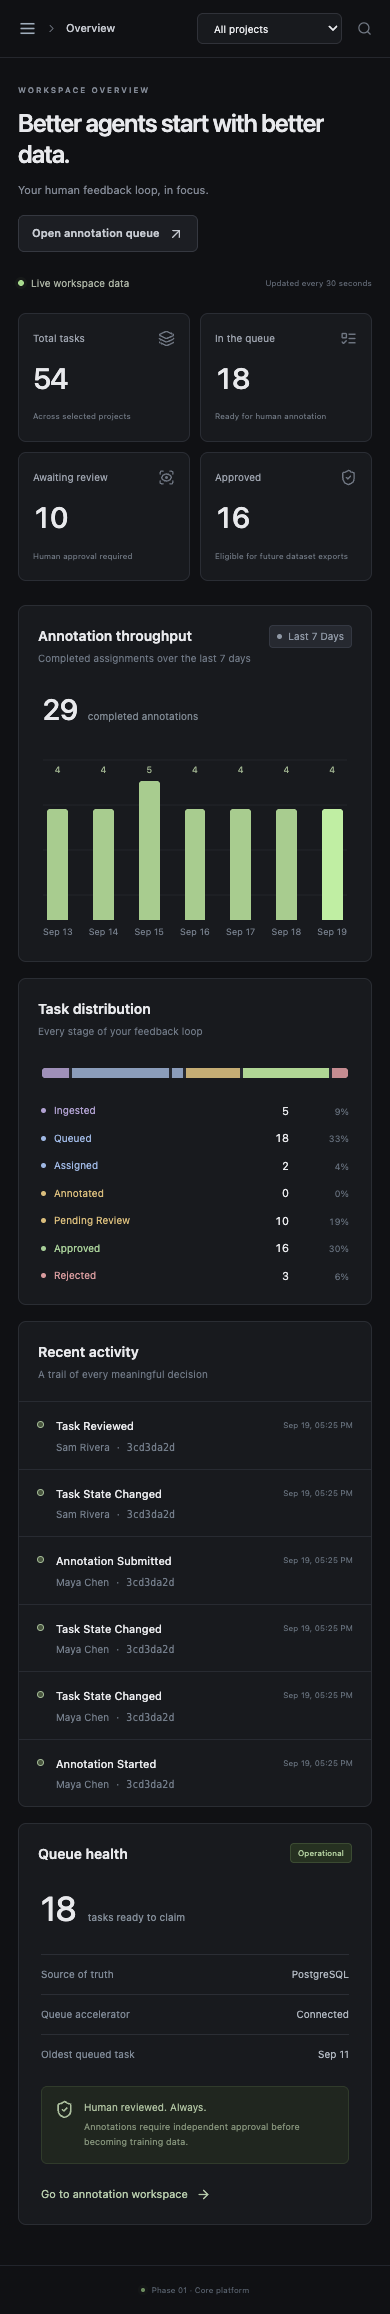
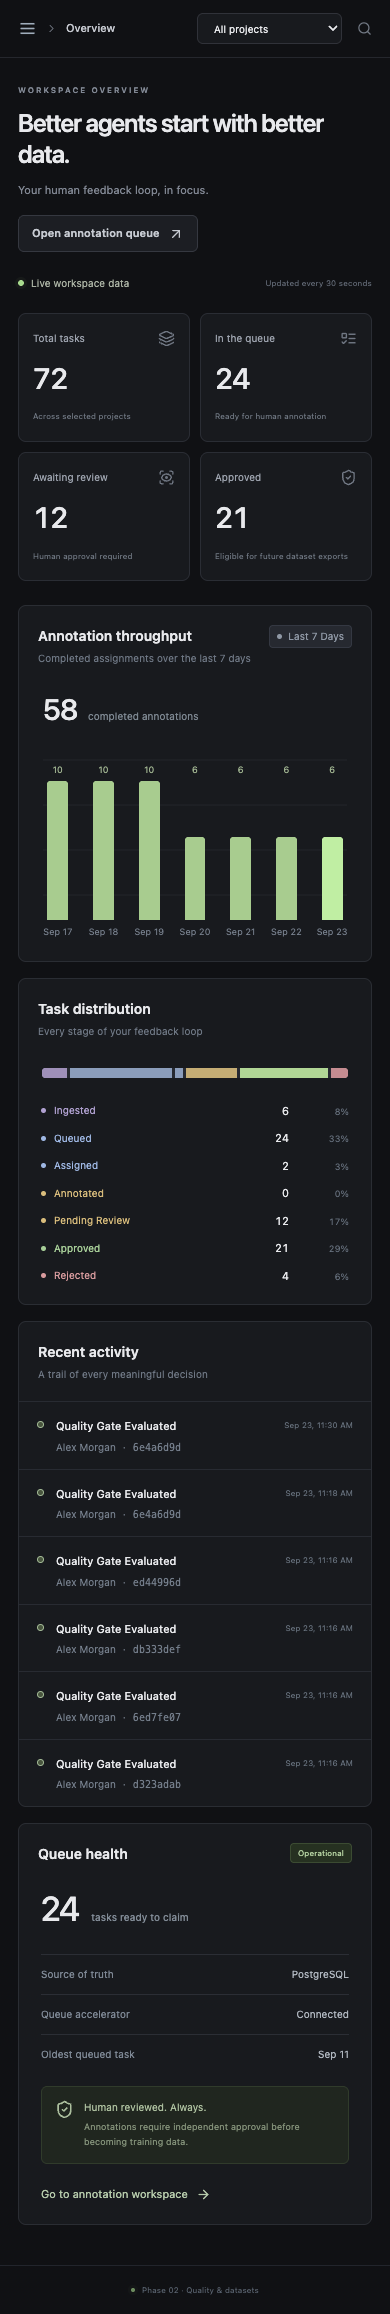
docs: document quality control, datasets, and the Phase 2 result
Add the quality rules and dataset/export contract references, and update
the README walkthrough for the multi-annotator loop, the review and
quality workspaces, dataset finalization, and background exports, along
with the new endpoints, the worker service, and EXPORT_DIRECTORY.

Extend the architecture notes with the Phase 2 failure semantics, record
the verification run, and refresh the screenshots from the running
seeded application.

Restate the scope boundary: monitoring integrations, external object
storage, SSO, and Parquet stay out of this phase.

diff --git a/README.md b/README.md
@@ -12,7 +12,7 @@ Requires Docker Desktop (running) and Docker Compose.
 docker compose up --build -d
 ```
 
-Open **http://localhost:8080**. API documentation: **http://localhost:8000/docs**. The backend applies Alembic migrations and seeds the demo automatically. Health checks coordinate startup for PostgreSQL, Redis, API, and frontend.
+Open **http://localhost:8080**. API documentation: **http://localhost:8000/docs**. The backend applies Alembic migrations and seeds the demo automatically. Health checks coordinate startup for PostgreSQL, Redis, API, export worker, and frontend.
 
 | Role | Email | Demo password |
 | --- | --- | --- |
@@ -20,6 +20,7 @@ Open **http://localhost:8080**. API documentation: **http://localhost:8000/docs*
 | Annotator | `annotator@argus.dev` | `Argus-demo-2026!` |
 | Reviewer | `reviewer@argus.dev` | `Argus-demo-2026!` |
 | Second annotator | `annotator2@argus.dev` | `Argus-demo-2026!` |
+| Third annotator | `annotator3@argus.dev` | `Argus-demo-2026!` |
 
 These are explicit local demo accounts. Ports bind to localhost. Copy `.env.example` to `.env` to customize settings; use a generated JWT secret and disable `SEED_DEMO` before a non-demo deployment. Existing seed accounts are never reset when containers restart.
 
@@ -31,34 +32,36 @@ docker compose down             # stop; preserve data volumes
 
 ## Try the feedback loop
 
-1. Sign in as admin. Explore the live overview, three projects, and 54 realistic tasks. Filter the task explorer, open a trace, expand tool inputs/outputs, and inspect its audit log.
-2. Sign in as an annotator. Open **Annotation Queue**, resume or claim a task, select an outcome and quality score, and write feedback. Structured fields accept a JSON object. Save the draft, then complete the assignment.
-3. The task moves to **PENDING_REVIEW**. Sign in as reviewer, find it in the task explorer, inspect the trace and annotations, and select **Review task**. Approval/rejection requires a written rationale.
-4. Admins can requeue rejected work. Earlier assignments, annotations, and decisions remain available as provenance.
+1. Sign in as admin. Open the **Agent quality · multi-review** project and its schema/quality settings. It has seven dynamic field types, three independent annotators, and explicit human quality gates.
+2. Open **Annotation Queue** as an annotator. Claim work, complete the versioned form, save, and submit. Other annotators' answers remain hidden by default. Reference tasks are inserted at the configured cadence.
+3. Open **Human Review** as reviewer. Compare the trajectory, independent annotations, agreement metrics, and history. Approve, reject, request changes, or escalate with a written rationale. Resolve open issues through **Escalations**.
+4. Open **Quality** for cohort agreement, gold accuracy, throughput, and inspectable annotator profiles. Agreement measures consistency, not correctness.
+5. Open **Datasets → argus-agent-reliability**. The seed includes two finalized versions, full lineage, trajectory exports, and a real paired-response DPO export. To build another version, prepare approved examples, filter/select them, create a draft, and finalize. Finalization rechecks every gate.
+6. Request an SFT, DPO, reward, or trajectory export as JSON/JSONL. **Export History** tracks worker progress and offers dataset, manifest, schema, and provenance downloads.
 
-An annotator cannot approve their own task, including when that annotator is an admin. Completing an annotation never approves it. Dataset exports and advanced monitoring are deliberately future-phase routes.
+The additive Phase 2 seed includes 18 tasks, three annotators, gold attempts, disagreements, escalations, revisions, five training examples, and two finalized dataset versions. Phase 1's original projects and tasks remain available. A reviewer cannot approve their own annotation. Completing annotations never grants training eligibility. See [quality rules](docs/quality-control.md) and [datasets and export contracts](docs/datasets.md).
 
 ## Implementation
 
 ```text
 backend/
   app/
-    api/             Auth, projects, tasks, annotations, operations
+    api/             Auth, projects, tasks, quality, datasets, operations
     auth/            Argon2 and JWT validation
     core/            Typed environment configuration
     db/              Session and transaction management
     models/          Relational entities, enums, constraints
     schemas/         Pydantic input contracts
     repositories/    Tenant-scoped queries and aggregates
-    services/        Ingestion and workflow logic
-    queue/           Redis priority coordination and fallback
+    services/        Workflow, consensus, quality gates, snapshots, exporters
+    queue/           Redis coordination, export worker, database fallback
     tests/           API, queue, and PostgreSQL concurrency tests
     seed.py
     main.py
   alembic/           Versioned schema migration
 frontend/
   src/components/    Shared UI primitives and trajectory timeline
-  src/pages/         Dashboard, projects, explorer, annotation, settings
+  src/pages/         Annotation, review, quality, schemas, datasets, lineage
   e2e/               Browser tests against the real running stack
 infrastructure/
   scripts/           Verification and migration checks
@@ -70,7 +73,7 @@ docs/
 
 Python 3.12+, FastAPI, SQLAlchemy 2, Alembic, Pydantic, PostgreSQL 16, Redis 7, and pytest power the backend. React, TypeScript, Vite, Tailwind CSS, TanStack Query, and React Router power the frontend. Nginx serves the production web build and proxies `/api` to FastAPI.
 
-PostgreSQL owns queue/assignment state. A Redis sorted set provides atomic priority hints; `FOR UPDATE SKIP LOCKED`, per-user serialization, and a partial unique index prevent duplicate active ownership. Missing or unavailable Redis entries fall back to PostgreSQL. Assignment leases expire after 60 minutes and recover on the next claim request. See [architecture decisions and failure semantics](docs/architecture.md).
+PostgreSQL owns queue/assignment state. A Redis sorted set provides atomic priority hints; `FOR UPDATE SKIP LOCKED`, per-user serialization, and a partial unique index prevent duplicate active ownership within each task/annotator/round. Missing or unavailable Redis entries fall back to PostgreSQL. Assignment leases expire after 60 minutes and recover on the next claim request. See [architecture decisions and failure semantics](docs/architecture.md).
 
 ## Local development
 
@@ -80,7 +83,7 @@ Requires Python 3.12+, Node 22+, and the database/cache services. The API reads 
 cp .env.example .env
 docker compose up -d postgres redis
 # If the complete stack is running, release ports used by local processes:
-docker compose stop backend frontend
+docker compose stop backend worker frontend
 
 cd backend
 python3.12 -m venv .venv
@@ -90,10 +93,11 @@ pip install -e '.[dev]'
 cp ../.env .env
 alembic upgrade head
 python -m app.seed
+python -m app.seed_phase2
 uvicorn app.main:app --reload --port 8000
 ```
 
-In a second terminal:
+In another terminal, activate the backend environment and run `python -m app.queue.worker`. The API and worker must use the same `EXPORT_DIRECTORY`. Start the frontend separately:
 
 ```sh
 cd frontend
@@ -115,9 +119,10 @@ Open http://localhost:5173. Vite forwards `/api` to port 8000. Production and de
 | `ASSIGNMENT_TIMEOUT_MINUTES` | Assignment lease duration | `60` |
 | `CORS_ORIGINS` | JSON array of allowed browser origins | Local ports 5173 and 8080 |
 | `SEED_DEMO` | Seed on container startup | `true` in local Compose |
+| `EXPORT_DIRECTORY` | Shared API/worker artifact directory | `./exports` locally; `/app/exports` in Compose |
 | `SEED_PASSWORD` | Password for initial demo accounts | `Argus-demo-2026!` |
 
-The seed command requires `SEED_PASSWORD` and does not print it. It creates demo records only when the demo admin does not already exist. To initialize an empty workspace, set `SEED_DEMO=false` and register through the UI. Public registration creates a separate organization; admins provision existing-workspace members through Settings.
+The seed command requires `SEED_PASSWORD` and does not print it. Phase 1 skips an existing demo admin; Phase 2 separately skips an existing demo quality project. To initialize an empty workspace, set `SEED_DEMO=false` and register through the UI. Public registration creates a separate organization; admins provision existing-workspace members through Settings.
 
 ## API structure
 
@@ -133,6 +138,13 @@ All protected requests use `Authorization: Bearer <access_token>`. `/docs` conta
 | Queue | `POST /tasks/{id}/queue`, `POST /annotation/next`, `GET /annotation/assignments`, `GET /annotation/assignments/{id}` |
 | Annotation | `POST /assignments/{id}/start`, `POST /assignments/{id}/annotations`, `PATCH /annotations/{id}`, `POST /assignments/{id}/complete` |
 | Review | `POST /tasks/{id}/review` with `decision` and `reason` |
+| Quality configuration | `GET/PUT /projects/{id}/quality-rules`, `GET/POST /projects/{id}/annotation-schemas` |
+| Human review | `GET /review/queue`, `GET /tasks/{id}/quality`, `POST /tasks/{id}/reviews`, `POST /tasks/{id}/quality-gate` |
+| Calibration | `POST /tasks/{id}/gold`, `GET /gold-tasks`, `GET /quality/dashboard` |
+| Escalations | `GET /escalations`, `POST /tasks/{id}/escalations`, `POST /escalations/{id}/resolve` |
+| Training examples | `POST /tasks/{id}/training-examples`, `POST /training-examples/materialize`, `POST /training-examples/preview`, `GET /training-examples/{id}/lineage` |
+| Datasets | `GET/POST /datasets`, `GET /datasets/{id}`, `POST /datasets/{id}/versions`, `GET /dataset-versions/{id}`, `POST /dataset-versions/{id}/finalize` |
+| Exports | `POST /dataset-versions/{id}/exports`, `GET /exports`, `GET /exports/{id}/files/{artifact}` |
 | Operations | `GET /overview`, `GET /health` |
 
 `GET /tasks` accepts `project_id`, `status`, exact numeric `priority`, `search`, `sort` (`created_at`, `priority`, `status`), `direction`, `page`, and `page_size`. Queue claims and overview accept an optional `project_id`.
@@ -185,7 +197,7 @@ npm run format:check
 npm run test:e2e
 ```
 
-Browser tests target the running seeded stack at `http://localhost:8080`, use installed Chrome on macOS, and write screenshots into `docs/screenshots`. Override `ARGUS_WEB_URL`, `CHROME_PATH`, and `SEED_PASSWORD` as needed. The workflow test creates its own organization/users/project and deletes its project afterward; test accounts remain isolated from the demo organization. For Linux CI, install Playwright Chromium and set `CHROME_PATH` to its executable.
+Browser tests target the running seeded stack at `http://localhost:8080`, use installed Chrome on macOS, and write screenshots into `docs/screenshots`. Override `ARGUS_WEB_URL`, `CHROME_PATH`, and `SEED_PASSWORD` as needed. Browser workflows create isolated organizations/users/projects. Unprotected projects are deleted afterward; finalized provenance is intentionally retained in the isolated test organization. For Linux CI, install Playwright Chromium and set `CHROME_PATH` to its executable.
 
 From the repository root:
 
@@ -199,4 +211,4 @@ The migration check creates a disposable database, verifies upgrade and metadata
 
 ## Scope
 
-Phase 1 includes core ingestion, queue recovery, annotation, audit logging, team provisioning, and an independent review gate. It does not yet provide dataset snapshots/exports, external object storage, reviewer consensus/calibration, SSO, or Prometheus/Grafana integration. The local stack is a complete portfolio/development deployment; production deployment should supply managed secrets, TLS, backups, and edge authentication abuse controls.
+Phase 2 delivers versioned annotation schemas, independent multi-annotator work, normalized human reviews, consensus, auditable gates, gold calibration, escalations, immutable dataset versions, full lineage, and background JSON/JSONL exports. Monitoring integrations, external object storage, SSO, and Parquet remain outside this phase. Local artifact storage is a shared Docker volume; large data rows stream during export, while the provenance index is collected in memory. Production deployment should supply managed secrets, TLS, backups, and edge authentication abuse controls.

diff --git a/docs/architecture.md b/docs/architecture.md
@@ -1,6 +1,6 @@
 # ARGUS architecture
 
-ARGUS treats human annotation as an auditable data production workflow. Phase 1 provides ingestion, assignment, annotation, and a minimal independent review gate. Dataset versioning, RL export formats, advanced reviewer calibration, object storage, and monitoring integrations remain future phases.
+ARGUS treats human annotation as an auditable data production workflow. Phase 2 extends ingestion and annotation with independent multi-annotator review, gold calibration, auditable quality gates, immutable training snapshots, dataset versions, lineage, and background RL-format exports. External object storage and monitoring integrations remain future work.
 
 ## Boundaries
 
@@ -23,9 +23,9 @@ JWT validation requires subject, expiration, issue time, issuer, audience, and H
 
 ## Relational invariants
 
-UUID strings are stable identifiers. PostgreSQL uses JSONB for task payloads, run metadata, tool inputs/outputs, annotation structures, and audit payloads. The migration uses real enums and explicit foreign keys, check constraints, and indexes. Task external IDs are unique within each project. Trajectory sequence numbers are unique within each run. Only one annotation exists per assignment. A partial unique index permits only one active assignment per task.
+UUID strings are stable identifiers. PostgreSQL uses JSONB for task payloads, run metadata, tool inputs/outputs, annotation structures, and audit payloads. The migration uses real enums and explicit foreign keys, check constraints, and indexes. Task external IDs are unique within each project. Trajectory sequence numbers are unique within each run. Only one annotation exists per assignment. A partial unique index permits only one active assignment per (task, annotator, round). Task row locks enforce the total configured slot capacity; user row locks serialize duplicate claims.
 
-Project deletion cascades through tasks, runs, steps, assignments, and annotations. Audit rows survive project/task deletion with nullable references and a deletion event containing the former project ID and name. User references on annotations/assignments restrict deletion to preserve provenance. There is no user-deletion endpoint in Phase 1.
+Project deletion cascades through unprotected tasks, runs, steps, assignments, and annotations. Projects containing training examples, preference decisions, or gold attempts return 409: retained evidence must survive. Audit rows survive project/task deletion with nullable references and a deletion event containing the former project ID and name. User references on annotations/assignments restrict deletion to preserve provenance. There is no user-deletion endpoint in Phase 1.
 
 ## Workflow
 
@@ -35,18 +35,23 @@ stateDiagram-v2
   INGESTED --> QUEUED: admin queues a trace
   QUEUED --> ASSIGNED: atomic claim
   ASSIGNED --> QUEUED: assignment expires
-  ASSIGNED --> ANNOTATED: complete saved annotation
+  ASSIGNED --> ANNOTATED: required independent annotations complete
   ANNOTATED --> PENDING_REVIEW: same transaction
-  PENDING_REVIEW --> APPROVED: independent human review
+  PENDING_REVIEW --> APPROVED: independent reviews and all gates pass
   PENDING_REVIEW --> REJECTED: independent human review
-  REJECTED --> QUEUED: admin requests reannotation
+  PENDING_REVIEW --> CHANGES_REQUESTED: reviewer requests revision
+  PENDING_REVIEW --> ESCALATED: quality concern
+  ESCALATED --> PENDING_REVIEW: last issue closed and annotations complete
+  CHANGES_REQUESTED --> QUEUED: admin starts next round
+  REJECTED --> QUEUED: admin starts next round
+  APPROVED --> PENDING_REVIEW: append revised review and recheck gates
 ```
 
 Every transition is validated in one service and creates an audit event. Completion never approves an example. Only an admin/reviewer who has not annotated the task can approve/reject, and a rationale is required. Completed annotations and queued trajectories are immutable. Reannotation creates a new assignment and annotation, retaining the earlier attempt.
 
 ## Queue and failure semantics
 
-PostgreSQL is authoritative. Claims lock the requesting user to serialize duplicate requests by the same person, then select a queued task with `FOR UPDATE SKIP LOCKED`, ordered by descending priority and creation time. Assignment insertion, task transition, and audit records commit atomically. The partial unique index provides an additional database guard against duplicate active ownership.
+PostgreSQL is authoritative. Claims lock the requesting user to serialize duplicate requests by the same person, then select a queued or partially assigned task with remaining annotation slots with `FOR UPDATE SKIP LOCKED`, ordered by descending priority and creation time. Assignment insertion, task transition, and audit records commit atomically. The partial unique index provides an additional database guard against duplicate active ownership.
 
 Redis holds one priority sorted set per organization. Enqueue mirrors a committed task; claim uses atomic `ZPOPMAX` to obtain a priority hint. PostgreSQL checks **all** eligible tasks at or above that hint, not merely the cached task, so uncached higher-priority work remains eligible. Empty/stale hints fall back to the full indexed database query. Project-filtered requests query PostgreSQL directly. Redis downtime, eviction, rollback, or a crash between commit and cache update does not lose work. Cached cardinality is advisory; dashboard length comes from PostgreSQL.
 
@@ -60,8 +65,35 @@ A project row lock serializes task ingestion within a project. Repeating an exte
 
 The dashboard queries real counts, recent audit events, Redis connectivity, and seven-day completed-assignment throughput. There are no simulated operational metrics. Demo records are explicit, reproducible seed data, created through the same ingestion and transition services. Every run has messages, a tool call/result, an observation, and a final answer. Task exploration supports pagination, search, status/priority filters, and sorting. The annotation editor rejects invalid structured JSON, saves drafts, blocks submission of unsaved changes, and submits to review.
 
-Dataset and Monitoring routes explicitly describe future functionality. There is no Phase 1 export endpoint that could bypass human approval.
+The dataset placeholder is replaced by curation, immutable versions, lineage, and export history. Monitoring remains a future integration.
 
 ## Verification
 
 Fast API tests use isolated SQLite databases for portable behavior checks, with foreign keys enabled; this does **not** verify PostgreSQL locking. The PostgreSQL integration suite uses a dedicated test database, real transactions, and simultaneous claim requests. Migration upgrade/downgrade checks and Compose health checks cover infrastructure configuration. Frontend tests cover table controls and annotation save/submit behavior; the browser smoke script exercises the real seeded application.
+
+## Phase 2 data and service boundaries
+
+`annotation_schema` publishes append-only schema versions. Queueing pins a version and required annotation count to a task round. Reference tasks keep the schema pinned when their expected answers were defined. Dynamic values are validated on save and completion. The baseline outcome and 1–5 score remain available for consistent cross-project analytics and reward normalization.
+
+`consensus` calculates categorical pair agreement, per-field disagreement, and numeric mean/median/population variance. Cohort Cohen/Fleiss kappa is calculated only where the rater/task structure permits it; undefined values stay null. `review` records new rows for every decision, including revisions, binding each to the exact current-round annotation IDs. An author of any annotation on the task cannot review it. Rejected/requested-change tasks can be queued into a new round without deleting prior evidence.
+
+`quality_gate` evaluates current policy against completed independent annotations, exact human review evidence, score/agreement/variance thresholds, unresolved escalations, and rolling reference performance. Every call persists a result and audit event, including failures. Required reviews cannot be configured below one. The latest decision per reviewer counts; a current rejection/request for changes vetoes eligibility. A gold reference never becomes a training example.
+
+`datasets` creates a self-contained snapshot only after a fresh successful gate evaluation. Finalization locks project policies and tasks in deterministic order, then checks gates and exact source annotation/review identities again. The selected snapshots, filters, metadata, and finalization evidence determine a SHA-256 checksum. PostgreSQL triggers reject updates/deletes of training snapshots and finalized versions, and changes to finalized membership. Foreign keys retain original sources; APIs expose frozen lineage as well as links to live tasks. A future policy or review revision can block new dataset versions without rewriting historical finalized artifacts.
+
+```mermaid
+flowchart LR
+  T[Task and frozen runs] --> A[Independent annotations]
+  A --> R[Human reviews]
+  R --> G[Audited quality gates]
+  G --> E[Immutable training example]
+  E --> D[Draft selection]
+  D --> F[Recheck gates and finalize]
+  F --> J[Export job]
+  J --> W[Background worker]
+  W --> X[Dataset + manifest + schema + provenance]
+```
+
+`export_jobs` persists jobs before notifying Redis. A separate worker consumes wakeups and scans PostgreSQL when Redis is unavailable. It claims pending/stale jobs with `SKIP LOCKED`, holds a job row lock during generation, streams data rows to a temporary file, and atomically replaces the data artifact. Abandoned RUNNING jobs are eligible for recovery after 15 minutes; active workers retain their lock and are skipped. Downloads require COMPLETED status and tenant authorization. Format incompatibility fails the job explicitly; partial files cannot be downloaded. All artifacts live in a shared named volume mounted by API and worker. The provenance list currently uses memory proportional to the example count.
+
+See [quality-control.md](quality-control.md) for definitions, state transitions, and calibration limitations, and [datasets.md](datasets.md) for format and reproducibility contracts.

diff --git a/docs/quality-control.md b/docs/quality-control.md
@@ -1,0 +1,65 @@
+# Quality control
+
+ARGUS requires independent human approval and every configured quality gate before it creates a training example. Dataset finalization evaluates those requirements again. Annotation completion, agreement, and an APPROVED badge alone do not bypass the gate service.
+
+## Schemas and assignment rounds
+
+Admins publish project schemas through project quality settings. Publication creates a new version; existing queued tasks keep their pinned version. Supported types are boolean, single select, multi-select, integer rating, continuous score, text, and structured JSON. Fields have keys, labels, descriptions, required flags, options, and numeric/length/item constraints. Both the API and dynamic form validate values. Boolean `false` is a valid answer, not a missing answer. Baseline outcome, 1–5 quality score, feedback, and structured notes remain available alongside project-specific fields.
+
+Queueing pins `required_annotations` and the active schema. Different people claim independent slots; one person cannot fill multiple slots in a round. Completed and active assignments consume slots; expired leases release them. PostgreSQL locks serialize claims and a fresh count under the task lock prevents capacity overflow. Rejected or requested-change tasks can be requeued into a new round. Previous annotations and reviews remain available; only current-round completed answers contribute to current gates.
+
+Annotators see their own answers. Optional `reveal_after_completion` reveals peers only after their own completion and the task reaches review readiness. Gold identity, expected answers, and grading events are omitted from annotator responses. Admins and reviewers can inspect review evidence; only admins manage gold references and worker profiles.
+
+## Decisions and escalations
+
+| Action | Behavior |
+| --- | --- |
+| Approve | Records a new review, evaluates gates, and marks APPROVED only if they pass. More approvals or evidence may still be needed. |
+| Reject | Records rationale and marks REJECTED. Admin can requeue into a new round. |
+| Request changes | Records rationale and marks CHANGES_REQUESTED. Admin can requeue into a new round. |
+| Escalate | Opens an escalation and marks ESCALATED. |
+| Resolve/dismiss escalation | Retains resolution text and actor; the last closed issue returns the task to review or unfinished annotation work. It does not approve it. |
+
+Review rows contain reviewer, task, round, exact annotation IDs, decision, comments, timestamp, and metadata. Decision revisions append rows instead of changing history. A person who annotated the task cannot review it, even with admin privileges. The latest decision per reviewer is counted; a current rejection/request for changes vetoes eligibility. Unresolved escalations block approval and training eligibility. Annotators can escalate assigned tasks, reviewers can escalate from review, and categorical conflicts can automatically open disagreement escalations.
+
+## Quality policy
+
+| Rule | Default | Interpretation |
+| --- | --- | --- |
+| `required_annotations` | 1 | Independent completed authors; gate uses the greater of current policy and the task's pinned count. |
+| `required_reviews` | 1 | Distinct independent approvals covering the exact current annotations; cannot be zero. |
+| `minimum_agreement` | 0 | Minimum pairwise agreement for outcome and each categorical field. Positive thresholds require multiple observed values. |
+| `minimum_score` | 1 | Every baseline annotation quality score must meet this value. |
+| `maximum_variance` | null | If configured, limits population variance for baseline scores and each numeric schema field. |
+| `minimum_gold_accuracy` | null | If configured, every author's mean accuracy over their latest 20 reference attempts must pass. |
+| `minimum_gold_attempts` | 1 | Minimum history when a gold accuracy requirement is enabled. |
+| `gold_every` | 5 | Prefer an unattempted reference at this completed-assignment cadence. |
+| `auto_escalate_disagreement` | true | Open an escalation when completed categorical answers conflict. |
+| `reveal_after_completion` | false | Permit peer-answer visibility after completion and review readiness. |
+
+Numeric fields may have different scales; a single variance ceiling applies to each field, so configure ranges and thresholds deliberately. The gold gate uses the worker's history across projects in their organization. Its 20-attempt window means a minimum history above 20 cannot pass; the API bounds that setting to 20.
+
+Every evaluation stores its policy, annotation/review IDs, consensus, gold evidence, eligibility, reasons, timestamp, evaluator, and audit event. Reasons include `requires_reviewer_approval`, `insufficient_independent_annotations`, `agreement_below_threshold`, `annotation_quality_below_threshold`, `score_variance_above_threshold`, `unresolved_escalation`, `insufficient_gold_history`, and `gold_accuracy_below_threshold`. Reference tasks always receive `gold_reference_excluded_from_training`.
+
+## Agreement and analytics
+
+For categorical values, raw agreement is the fraction of ordered rater pairs with matching values; disagreement is one minus agreement. Multi-select compares sorted sets of selected options. Numeric summaries report mean, median, population standard deviation, and population variance. Free text and JSON require human interpretation and are not automatically scored for agreement.
+
+A single task does not provide a meaningful chance-corrected kappa. The dashboard computes Cohen's kappa for the same pair on at least two tasks, and Fleiss' kappa across equal-rater-count task cohorts. These cohort calculations use baseline outcome labels. Insufficient data or degenerate expected agreement yields null/“Undefined”, not a perfect score. Agreement describes consistency, not correctness.
+
+Project/date filters select tasks by creation timestamp. Dashboard denominators are explicit:
+
+- Approval rate: latest review decision per reviewed task.
+- Disagreement: mean outcome disagreement over tasks with multiple current-round answers.
+- Eligibility: latest recorded gate among evaluated tasks; this is historical evidence, not a live guarantee after policy changes.
+- Throughput: completed assignments, including gold and earlier rounds, grouped by completion date.
+- Median annotation time: started-to-completed duration where both timestamps exist.
+- Peer agreement: current-round outcome against a unique majority of the other raters; excludes ties and self-votes.
+- Rejection/revision rates: distinct worked tasks ever receiving that decision divided by worked tasks with reviews. These are inspectable historical rates, not necessarily fault attribution to a particular worker.
+- Gold accuracy: mean fraction of expected fields matched per attempt. Rolling accuracy and recent failures use the last 20 filtered attempts; recent trend exposes individual comparisons.
+
+## Gold references
+
+Admins designate INGESTED tasks before queueing, with expected baseline label/score and/or schema values. The reference pins its schema. Numeric fields accept an absolute tolerance; multi-select compares sorted options. Grading stores field-level comparisons and accuracy. Each worker attempts a reference once; it remains available for other workers and never enters training datasets. Cadence is a preference: if no regular work exists, available references can be served earlier, and absent reference tasks do not block ordinary work.
+
+The seed demonstrates three annotators, successful/failed reference attempts, conflicting annotations, requested changes, rejection, pending review, and approved examples. No synthetic quality rating replaces the inspectable metrics.

diff --git a/docs/datasets.md b/docs/datasets.md
@@ -1,0 +1,50 @@
+# Datasets and training exports
+
+Only tasks passing current human quality gates can produce a `TrainingExample`. A training example is a frozen record, not a pointer to whichever annotation happens to be current later. Dataset finalization rechecks all gates and source evidence before admitting any selected example.
+
+## Build a version
+
+1. Create a dataset as admin and open its builder.
+2. Use **Prepare approved examples** to evaluate approved tasks and materialize eligible snapshots. The action reports blocked tasks and processes at most 500 tasks per request; individual task materialization is also available through review/API.
+3. Filter by project (workspace selector), task type, model, task creation date, minimum baseline score, annotation label, or exact top-level task metadata values. Human approval is mandatory; the reviewer-decision filter supports APPROVED only.
+4. Select eligible examples, inspect their previews, and create a draft. The API accepts at most 10,000 unique examples, with at most one example per originating task.
+5. Finalize. The service locks policies/tasks, runs current gates, verifies exact annotation and review IDs and round, records finalization evidence, and calculates the version checksum. Any failing example leaves the whole version DRAFT with explicit reasons.
+6. Request a format/container and inspect Export History. Downloads become available only after the background worker completes the job.
+
+Preview evaluations are audited. The score filter and project score gate both require every annotation's baseline score to meet the minimum; preview tables display the mean for comparison. Changed policy, new gold failures, new review decisions, or escalation can make an old snapshot ineligible for a new version. Finalized historical versions remain immutable and exportable according to their recorded admission evidence. To change membership or configuration, create another version.
+
+## Provenance and immutability
+
+Each snapshot retains project/task data, every original run and ordered trajectory step, current completed annotations, the approving human review evidence, pinned annotation schema, optional human preference pair, and its successful source gate. Foreign keys retain the original relational sources. Lineage UI links the dataset versions, training example, task, runs, trajectories, annotations, review, source gate, and per-version finalization gate.
+
+Training snapshots and finalized versions cannot be updated/deleted in PostgreSQL: migration-installed triggers reject mutations. Finalized membership cannot be inserted, changed, moved, or deleted. APIs provide no mutation route for frozen evidence. Projects with retained training/calibration/preference evidence cannot be deleted.
+
+Versions store an increasing dataset-local number, creator, creation/finalization timestamps, example count, recorded filters, schema version (`argus.training.v1`), metadata, and SHA-256 checksum. The checksum covers canonical serialized snapshots, filters, metadata, schema version, and finalization evidence. It identifies this exact admission event; rebuilding the same selection later may produce a different version checksum because evaluation IDs/timestamps differ. Dataset-file checksums instead identify the exact exported bytes.
+
+## Supported formats
+
+All formats support JSON arrays and JSONL. Missing required source evidence fails the entire job explicitly; no row is silently fabricated or omitted.
+
+| Format | Record | Source requirements |
+| --- | --- | --- |
+| SFT | `{"messages":[{"role":"user","content":"…"},{"role":"assistant","content":"…"}]}` | Source prompt and final answer; one run, or a reviewer-selected chosen run. |
+| DPO | `{"prompt":"…","chosen":"…","rejected":"…"}` | Explicit reviewer-validated pair of distinct actual runs with different final responses. |
+| Reward | `{"prompt":"…","response":"…","score":0.75}` | Source prompt, selected final response, and human baseline scores. |
+| Trajectory | `{"task":{…},"trajectory":[…],"reward":0.75,"metadata":{…}}` | Full preserved runs/steps plus annotation, review, and gate evidence. |
+
+Prompt selection uses task `input_payload.prompt` or `question`, then the first source user-message step. Response selection uses the last nonempty `final_answer`. SFT exports prompt/final-answer pairs; it does not invent a conversation or embed all tool steps as chat messages. Full traces remain in trajectory format and frozen lineage. Reward is `(mean human baseline score - 1) / 4`, mapping the 1–5 scale to 0–1; it is an explicit normalization, not a calibrated probability.
+
+Reviewers/admins record a preference through `POST /tasks/{id}/preference`, supplying `chosen_run_id`, `rejected_run_id`, and rationale. Both runs must belong to that task; a task annotator cannot supply its preference decision. Record the pair before materializing a snapshot intended for DPO. Existing immutable snapshots do not acquire later preference decisions. The seeded second dataset version contains two real paired examples.
+
+## Jobs and artifacts
+
+`POST /dataset-versions/{id}/exports` returns 202 with a PENDING job. HTTP does not scan/serialize the dataset. The Redis-backed worker checks compatibility and generates artifacts while holding the job row lock. States are PENDING, RUNNING, COMPLETED, FAILED. Failed jobs preserve an explicit error; request a new job after selecting a supported source/version/format. Redis outages are tolerated through database polling, and abandoned RUNNING jobs can be reclaimed after 15 minutes. Active work is protected from concurrent recovery by its row lock.
+
+Each completed job provides:
+
+- `dataset.jsonl` or `dataset.json`: deterministic ordered training records.
+- `manifest.json`: job/version/schema identifiers, count, format, creation timestamp, file names, dataset byte size, and SHA-256 checksums for data/schema/provenance.
+- `schema.json`: record field contract, format/container, reward normalization, and SFT policy.
+- `provenance.json`: row index, training example/task/run/annotation/review IDs, snapshot checksum, source gate ID, and finalization gate ID/evidence.
+
+Downloads use authenticated `GET /exports/{id}/files/{dataset|manifest|schema|provenance}` and are organization-scoped. Dataset rows stream through a temporary file followed by atomic replacement; incomplete jobs cannot expose artifacts. Provenance is currently collected in memory, and downloads use the shared local export directory. Compose mounts `export_data` into both API and worker; local development must point both at the same `EXPORT_DIRECTORY`. Back up this volume with PostgreSQL for artifact retention. External object storage and Parquet are not part of Phase 2.

diff --git a/docs/verification.md b/docs/verification.md
@@ -24,3 +24,16 @@ Screenshots are generated by browser tests rather than mockups. Counts reflect t
 - npm dependency audit after the Vitest update: **0 vulnerabilities**.
 
 The Python test runner reports two upstream Starlette/httpx/AnyIO deprecation warnings; tests pass. The Compose stack is left running for inspection.
+
+## Phase 2 recorded result — September 23, 2026
+
+- PostgreSQL backend suite: **31 passed**, including migrated-schema API tests, three simultaneous-claim tests, and direct SQL attempts to mutate/delete frozen snapshots, finalized versions, and membership.
+- Portable SQLite suite: **27 passed**, **4 skipped** (PostgreSQL-specific locking/trigger tests).
+- Frontend interaction tests: **6 passed**, including dynamic field behavior and invalid structured values.
+- Chrome end-to-end workflows: **4 passed**. Phase 2 covers schema publication, dynamic annotation, independent review evidence, dataset materialization/selection/finalization, background export/download, seeded DPO artifacts, and visual lineage. Finalized test evidence is retained in isolated organizations.
+- API coverage includes schema pinning, independent annotation capacity and blindness, categorical/numeric metrics, normalized reviews and revisions, escalation resolution, gold secrecy/grading/history requirements, stale approval/policy rejection, dataset tenant isolation, lineage, JSON/JSONL format adapters and checksums, and asynchronous unsupported-DPO failure.
+- Ruff, TypeScript, ESLint, Prettier, frontend production build, and Compose configuration validation passed.
+- Alembic upgrade, metadata comparison, downgrade to base, and re-upgrade passed in a disposable PostgreSQL database.
+- Five-service Compose stack includes the dedicated export worker and shared artifact volume. Seeded trajectory and real-pair DPO jobs completed.
+
+The backend suite retains two upstream Starlette/httpx/AnyIO deprecation warnings. Screenshots for quality, review, dataset version, and lineage were captured from the running seeded application.
